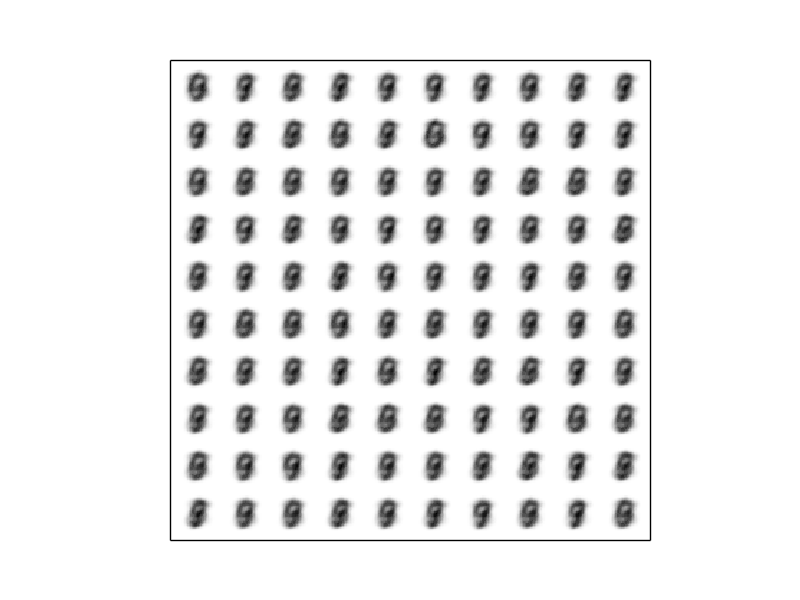
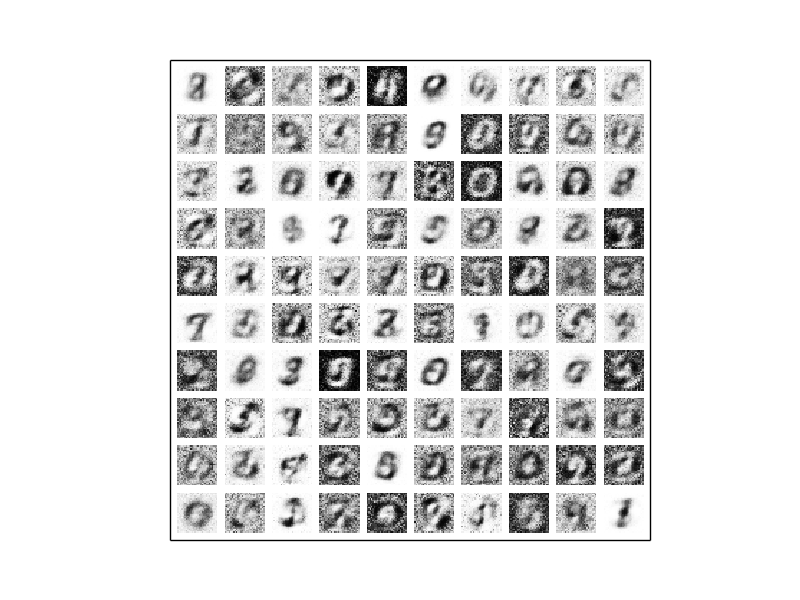
autoencoder with entropy lower bound working

Changed region(s): [[0.2188, 0.09, 0.8125, 0.9]]

diff --git a/autopaint/aevb_ent.py b/autopaint/aevb_ent.py
@@ -1,6 +1,7 @@
 import autograd.numpy as np
-from autopaint.util import entropy_of_a_diagonal_gaussian
+from autopaint.util import entropy_of_a_diagonal_gaussian,entropy_of_diagonal_gaussians
 from plotting import plot_density
+from autopaint.aevb import compute_kl
 
 def lower_bound(weights,encode,decode_log_like,log_prior,N_weights_enc,train_images,samples_per_image,latent_dimensions,rs):
     enc_w = weights[0:N_weights_enc]
@@ -13,19 +14,11 @@ def lower_bound(weights,encode,decode_log_like,log_prior,N_weights_enc,train_ima
 def compute_log_prob_and_ent(enc_w,dec_w,encode,decode_log_like,log_prior,train_images,samples_per_image,latent_dimensions,rs):
     (mus,log_sigs) = encode(enc_w,train_images)
     sigs = np.exp(log_sigs)
-    sigs = np.ones(sigs.shape)
-    ents = entropy_of_a_diagonal_gaussian(sigs)
-    mean_ent = np.mean(ents)
     noise = rs.randn(samples_per_image,train_images.shape[0],latent_dimensions)
     Z_samples = mus + sigs*noise
     Z_samples = np.reshape(Z_samples,(train_images.shape[0]*samples_per_image,latent_dimensions),order = 'F')
+    mean_ent = np.mean(entropy_of_diagonal_gaussians(sigs))
     train_images_repeat = np.repeat(train_images,samples_per_image,axis=0)
-    print 'prior avg', np.mean(log_prior(Z_samples))
-    try:
-        plot_samples = Z_samples.value
-    except:
-        plot_samples = Z_samples
-    plot_density(plot_samples,'z_samples.png')
     mean_log_prob = np.mean(decode_log_like(dec_w,Z_samples,train_images_repeat) +log_prior(Z_samples))
     return mean_log_prob, mean_ent
 

diff --git a/autopaint/aevb.py b/autopaint/aevb.py
@@ -1,13 +1,13 @@
 import autograd.numpy as np
-from autopaint.util import neg_kl_diag_normal
-
+from autopaint.util import neg_kl_diag_normal, entropy_of_diagonal_gaussians,build_logprob_standard_normal, entropy_of_a_diagonal_gaussian
+from scipy.stats import entropy
 def lower_bound(weights,encode,decode_log_like,N_weights_enc,train_images,samples_per_image,latent_dimensions,rs):
     enc_w = weights[0:N_weights_enc]
     dec_w = weights[N_weights_enc:len(weights)]
     mean_log_prob = np.mean(compute_log_prob(enc_w,dec_w,encode,decode_log_like,train_images,samples_per_image,latent_dimensions,rs))
     mean_kl = compute_kl(enc_w,train_images,encode)
     print "ll average", mean_log_prob
-    print "kl average", mean_kl
+    print "neg kl average", mean_kl
     return mean_log_prob + mean_kl
 
 def compute_log_prob(enc_w,dec_w,encode,decode_log_like,train_images,samples_per_image,latent_dimensions,rs):
@@ -25,5 +25,10 @@ def compute_kl(enc_w,train_images,encode):
     sigs = np.exp(log_sigs)
     kl_vect = neg_kl_diag_normal(mus,sigs)
     return np.mean(kl_vect)
+
+def cross_ent(mus,sigs):
+    return -1*.5*(np.log(2*np.pi)+sigs**2+mus**2)
+
+
 
 

diff --git a/experiments/6-test-aevb/1-test-encoder/main.py b/experiments/6-test-aevb/1-test-encoder/main.py
@@ -15,8 +15,8 @@ from autopaint.aevb import lower_bound
 from autopaint.util import WeightsParser, load_and_pickle_binary_mnist
 from autopaint.neuralnet import make_binary_nn,make_gaussian_nn
 param_scale = 0.1
-samples_per_image = 10
-latent_dimensions = 20
+samples_per_image = 1
+latent_dimensions = 10
 hidden_units = 500
 
 def run_aevb(train_images):
@@ -46,6 +46,7 @@ def run_aevb(train_images):
     batch_idxs = make_batches(train_images.shape[0], batch_size)
 
     def batch_value_and_grad(weights, iter):
+        iter = iter % len(batch_idxs)
         cur_data = train_images[batch_idxs[iter]]
         return lower_bound(weights,encoder,decoder_log_like,N_weights_enc,cur_data,samples_per_image,latent_dimensions,rs)
     lb_grad = grad(batch_value_and_grad)

diff --git a/autopaint/early_stop.py b/autopaint/early_stop.py
@@ -37,6 +37,8 @@ def gradient_ascent_entropic(gradfun, loglik,entropies, xs, step_size, rs, callb
     curL = loglik(xs)+entropies
     curIter = 0
     while curL > prevL:
+        if curIter % 10 == 0:
+            print 'grad step',curIter
         if callback: callback(xs=xs, t=t, entropy=delta_entropy)
         new_xs, delta_entropy = gradient_step_track_entropy(gradfun, xs,step_size, rs, approx=approx)
         # Update entropy estimate.

diff --git a/experiments/6-test-aevb/2-test-ent-autoencoder/main.py b/experiments/6-test-aevb/2-test-ent-autoencoder/main.py
@@ -16,7 +16,7 @@ from autopaint.util import WeightsParser, load_and_pickle_binary_mnist,build_log
 from autopaint.neuralnet import make_binary_nn,make_gaussian_nn
 param_scale = 0.1
 samples_per_image = 1
-latent_dimensions = 2
+latent_dimensions = 10
 hidden_units = 500
 
 def run_aevb(train_images):

diff --git a/autopaint/util.py b/autopaint/util.py
@@ -150,8 +150,6 @@ def sample_from_normal_bimodal(mean1,mean2,num_samples,rs):
     return samples
 
 
-
-
 def build_unwhitener(mean, cov):
     """Builds a function that takes in a draw from a standard normal, and
        turns it into a draw from a MVN with mean, cov."""
